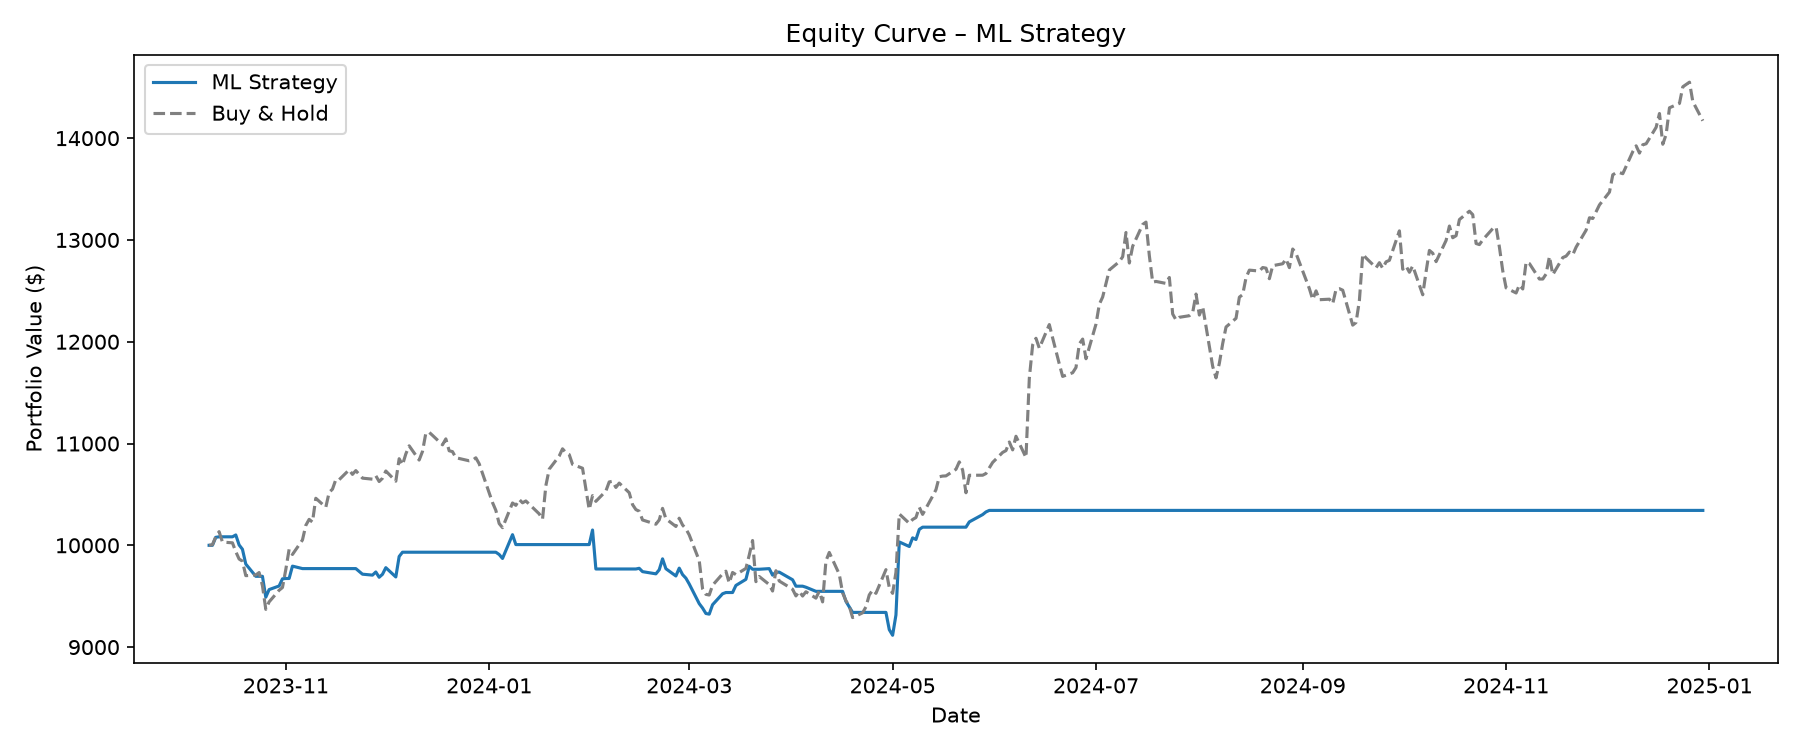
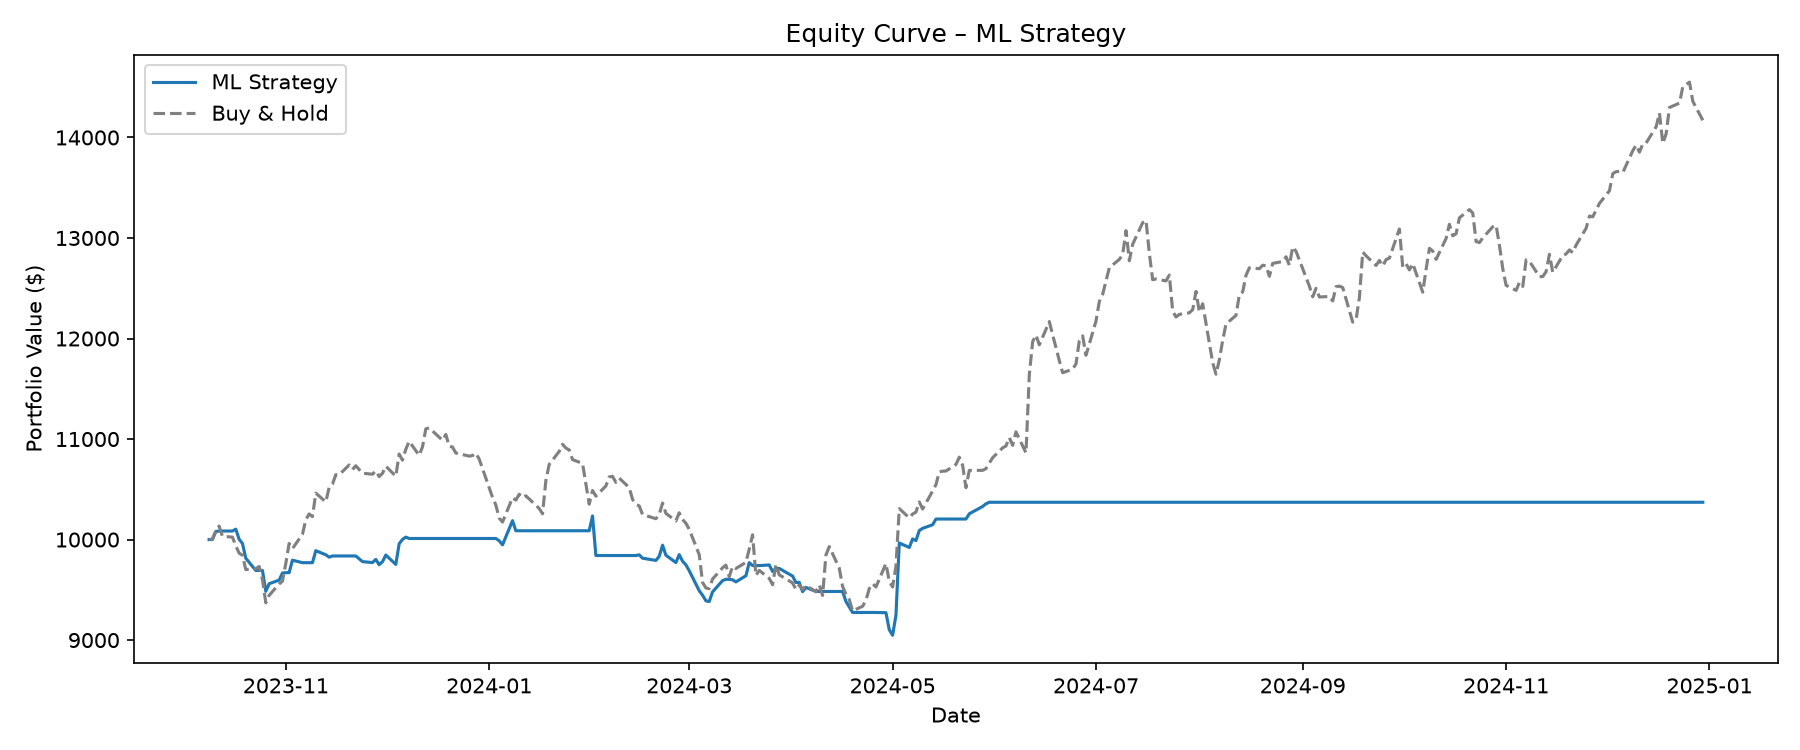
Drop the duplicated signal strategy and document the pending-order bug.
The pipeline now marks the published equity curve with next-open returns, leaving MLSignalStrategy.next() untouched for the separate fix. The README records that known gap and the updated holdout result.

diff --git a/src/backtesting.py b/src/backtesting.py
@@ -437,77 +437,37 @@ def equity_period_returns(equity: pd.Series | np.ndarray) -> np.ndarray:
     return values[1:] / values[:-1] - 1.0
 
 
-def run_long_flat_backtest(
-    frame: pd.DataFrame,
-    initial_cash: float = 10_000.0,
-    commission_rate: float = 0.001,
+def equity_from_period_returns(
+    returns: np.ndarray,
+    initial_cash: float,
+    dates,
 ) -> pd.Series:
-    """Run the long/flat next-open strategy and return one value per bar.
+    """Build an equity curve that starts at ``initial_cash`` before the first return.
 
-    Backtrader is imported inside the function so the rest of this module can
-    be tested without that dependency. Market orders submitted from ``next``
-    fill on the following bar's open, matching the notebook strategy.
+    ``dates`` must contain one more timestamp than ``returns``: the starting
+    mark, then one mark after each period return.
     """
-    import backtrader as bt
+    returns = np.asarray(returns, dtype=float)
+    initial_cash = float(initial_cash)
+    dates = pd.Index(dates)
 
-    required = ["Open", "High", "Low", "Close", "Volume", "Signal"]
-    missing = [column for column in required if column not in frame.columns]
-    if missing:
-        raise KeyError(f"Backtest frame is missing columns: {missing}")
-    if frame.empty:
-        raise ValueError("Backtest frame must not be empty")
+    if returns.ndim != 1:
+        raise ValueError("returns must be one-dimensional")
+    if not np.isfinite(returns).all():
+        raise ValueError("returns must be finite")
+    if not np.isfinite(initial_cash) or initial_cash <= 0:
+        raise ValueError("initial_cash must be finite and positive")
+    if len(dates) != len(returns) + 1:
+        raise ValueError(
+            "dates must contain the starting mark plus one mark per return "
+            f"({len(dates)} dates for {len(returns)} returns)"
+        )
 
-    class MLSignalStrategy(bt.Strategy):
-        """Buy or exit from an externally computed long/flat signal."""
-
-        params = dict(signals=None, printlog=False, commission_rate=0.0)
-
-        def __init__(self):
-            self.idx = 0
-            self.signals = self.params.signals
-            self.order = None
-            self.portfolio_values = []
-
-        def next(self):
-            self.portfolio_values.append(self.broker.getvalue())
-            if self.order:
-                return
-
-            signal = self.signals[self.idx] if self.idx < len(self.signals) else -1
-            self.idx += 1
-
-            if signal == 1 and not self.position:
-                cash = self.broker.getcash()
-                size = commission_aware_position_size(
-                    cash, self.data.close[0], self.params.commission_rate
-                )
-                if size > 0:
-                    self.order = self.buy(size=size)
-            elif signal == 0 and self.position:
-                self.order = self.sell(size=self.position.size)
-
-        def notify_order(self, order):
-            if is_terminal_order(order):
-                self.order = None
-
-    prices = frame[["Open", "High", "Low", "Close", "Volume"]].copy()
-    prices.index = pd.to_datetime(prices.index)
-    if getattr(prices.index, "tz", None) is not None:
-        prices.index = prices.index.tz_localize(None)
-    prices.columns = ["open", "high", "low", "close", "volume"]
-
-    cerebro = bt.Cerebro()
-    cerebro.adddata(bt.feeds.PandasData(dataname=prices))
-    cerebro.addstrategy(
-        MLSignalStrategy,
-        signals=frame["Signal"].to_numpy(dtype=int),
-        commission_rate=commission_rate,
-    )
-    cerebro.broker.setcash(float(initial_cash))
-    cerebro.broker.setcommission(commission=float(commission_rate))
-    cerebro.broker.set_coc(False)
-    strategy = cerebro.run()[0]
-    return portfolio_value_series(strategy.portfolio_values, frame.index)
+    values = np.empty(len(dates), dtype=float)
+    values[0] = initial_cash
+    if len(returns):
+        values[1:] = initial_cash * np.cumprod(1.0 + returns)
+    return portfolio_value_series(values, dates)
 
 
 def portfolio_value_series(

diff --git a/src/pipeline.py b/src/pipeline.py
@@ -24,10 +24,11 @@ import pandas as pd
 from src.backtesting import (
     assemble_signal_frame,
     buy_and_hold_equity_values,
+    equity_from_period_returns,
     equity_period_returns,
     next_day_direction_signals,
+    next_open_long_flat_returns,
     portfolio_value_series,
-    run_long_flat_backtest,
 )
 from src.baselines import (
     directional_accuracy,
@@ -462,8 +463,14 @@ def run_pipeline(config: PipelineConfig) -> dict:
     backtest_frame = assemble_signal_frame(
         frame, feature_index, holdout_targets, final["predicted"], signals
     )
-    strategy_equity = run_long_flat_backtest(
-        backtest_frame, config.initial_cash, config.commission_rate
+    strategy_returns = next_open_long_flat_returns(
+        signals.astype(float),
+        frame.loc[holdout_targets, "Open"].to_numpy(dtype=float),
+        final["y_test"],
+        commission_rate=config.commission_rate,
+    )
+    strategy_equity = equity_from_period_returns(
+        strategy_returns, config.initial_cash, backtest_frame.index
     )
     buy_hold_values = buy_and_hold_equity_values(
         backtest_frame["Open"].to_numpy(dtype=float),
@@ -584,7 +591,7 @@ def run_pipeline(config: PipelineConfig) -> dict:
             },
             "strategy": {
                 **_performance_block(strategy_equity, config.initial_cash, config.risk_free_rate),
-                "engine": "backtrader",
+                "engine": "next_open_long_flat_returns",
                 "commission_rate": config.commission_rate,
             },
             "buy_and_hold": _performance_block(

diff --git a/tests/test_backtesting.py b/tests/test_backtesting.py
@@ -8,6 +8,7 @@ from src.backtesting import (
     SignalLookup,
     buy_and_hold_equity_values,
     commission_aware_position_size,
+    equity_from_period_returns,
     is_terminal_order,
     long_flat_returns_from_signals,
     next_day_direction_signals,
@@ -503,6 +504,29 @@ def test_portfolio_value_series_rejects_length_mismatch():
 
     with pytest.raises(ValueError, match="same length"):
         portfolio_value_series([10_000.0, 10_050.0, 10_025.0, 10_100.0], dates)
+
+
+def test_equity_from_period_returns_starts_at_initial_cash():
+    dates = pd.date_range("2026-01-05", periods=3, freq="B")
+
+    equity = equity_from_period_returns(
+        np.array([0.10, -0.05]),
+        initial_cash=1_000.0,
+        dates=dates,
+    )
+
+    assert equity.iloc[0] == pytest.approx(1_000.0)
+    assert equity.iloc[1] == pytest.approx(1_100.0)
+    assert equity.iloc[2] == pytest.approx(1_045.0)
+
+
+def test_equity_from_period_returns_requires_a_starting_date():
+    with pytest.raises(ValueError, match="starting mark"):
+        equity_from_period_returns(
+            np.array([0.01]),
+            initial_cash=1_000.0,
+            dates=pd.date_range("2026-01-05", periods=1, freq="B"),
+        )
 
 
 def test_portfolio_value_series_rejects_non_finite_values():

diff --git a/tests/test_pipeline.py b/tests/test_pipeline.py
@@ -69,6 +69,6 @@ def test_demo_pipeline_writes_real_computed_metrics(tmp_path):
     assert (tmp_path / "results" / "metrics.json").exists()
     assert (tmp_path / "results" / "baseline_comparison.png").exists()
     assert (tmp_path / "results" / "equity_curve.png").exists()
-    assert metrics["final_holdout"]["strategy"]["engine"] == "backtrader"
+    assert metrics["final_holdout"]["strategy"]["engine"] == "next_open_long_flat_returns"
     assert metrics["final_holdout"]["strategy"]["final_value"] > 0
     assert "--demo" in command_line(config)

diff --git a/README.md b/README.md
@@ -57,7 +57,7 @@ Backtest of the random-forest long/flat rule on that holdout, starting from $10,
 
 | | Final value | Total return | Sharpe | Max drawdown |
 |---|---:|---:|---:|---:|
-| Model strategy | $10,342.92 | 3.43% | -0.062 | -10.19% |
+| Model strategy | $10,371.05 | 3.71% | -0.037 | -11.60% |
 | Buy and hold | $14,171.10 | 41.71% | 1.265 | -16.38% |
 
 <p align="center"><img src="results/baseline_comparison.png" alt="Final holdout MAE and RMSE for persistence, random forest, and LSTM" width="78%"></p>
@@ -83,7 +83,7 @@ Vendor-adjusted prices can be revised later, so a fresh download can nudge these
 - Evaluates a random forest on expanding walk-forward folds with a one-day embargo, so a training label cannot fall inside the next test window
 - Fits the LSTM scaler on pre-holdout rows only, and builds each test sequence from already observed history
 - Compares both models with a persistence baseline and the direction model with a majority-class baseline
-- Replays long/flat signals in Backtrader: orders submitted on the signal bar fill at the next open, commission included, against a buy-and-hold book that pays the same entry fee
+- Turns the random-forest direction into long/flat returns with next-open fills and commission, and compares that curve with a buy-and-hold book that pays the same entry fee
 
 ## Stack
 
@@ -195,6 +195,7 @@ GitHub Actions installs the pinned runtime and dev requirements on Python 3.12, 
 - The published forest is not grid-searched. `--tune` is available and was not used for these numbers.
 - Commission is a flat 0.1% of notional. There is no spread, slippage, or market-impact model.
 - Sentiment is absent unless an API key can actually cover the sample. The constant column is dropped.
+- In `notebooks/backtesting.ipynb`, `MLSignalStrategy.next()` returns while an order is pending without advancing the signal index, so a later bar can be paired with an earlier signal. That is a known bug ([#65](https://github.com/ParBproject/stock-price-predictor/issues/65)). The equity curve reported above does not use that method. It comes from `next_open_long_flat_returns`, which applies one signal to each target bar.
 - A production trading system would still need walk-forward across names, risk limits, and monitoring. This repository stops at a reproducible historical study.
 
 ## Responsible use
